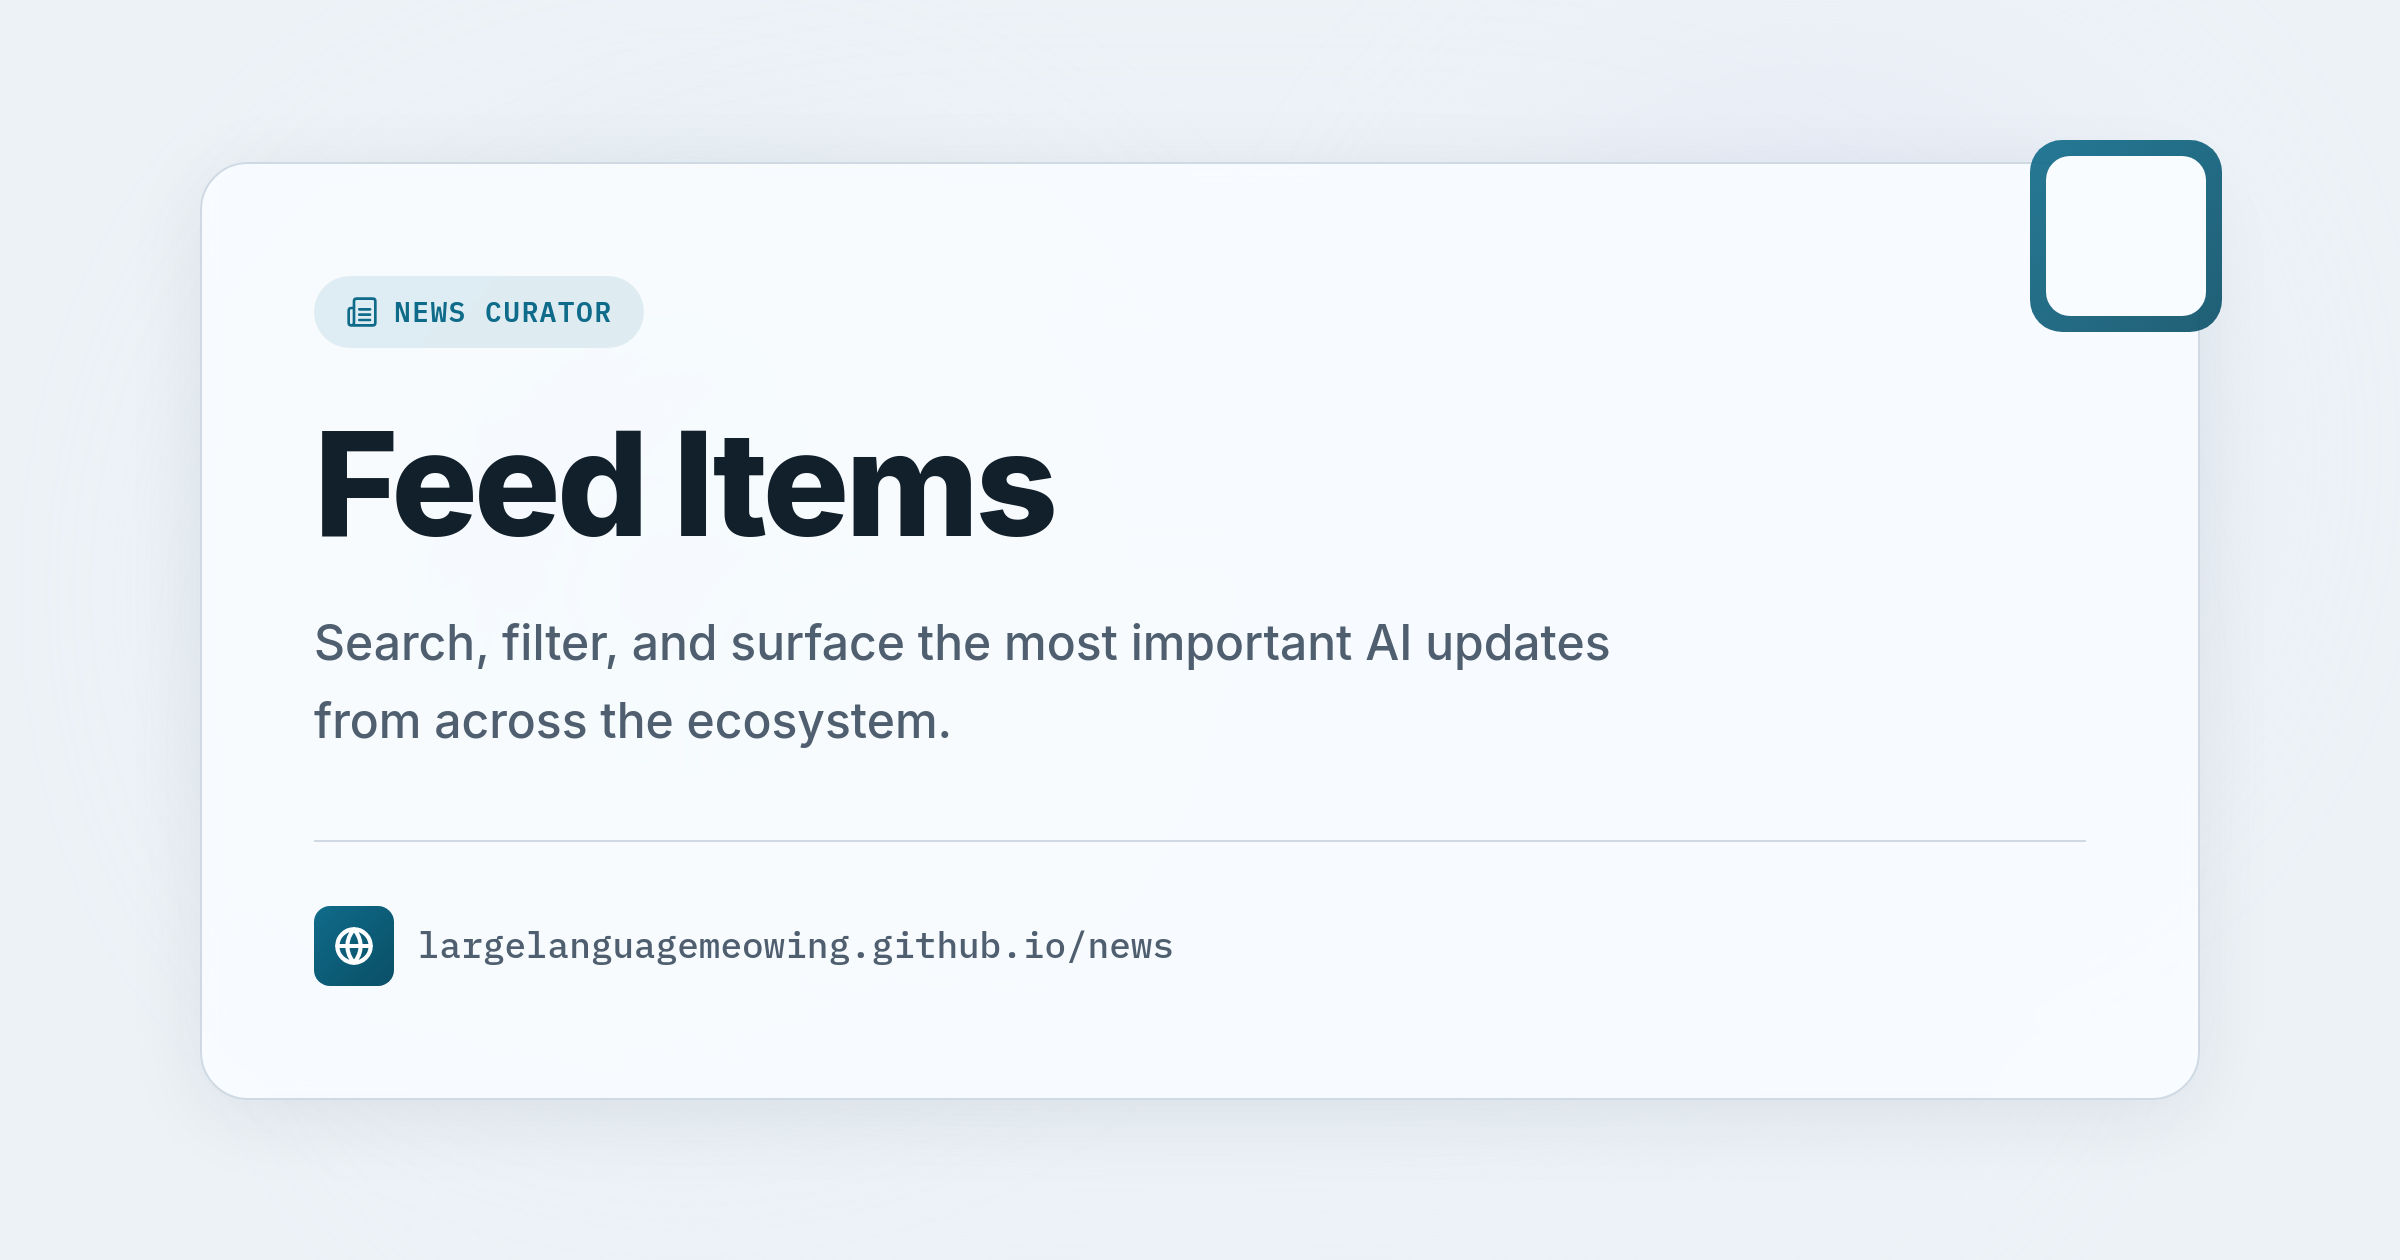
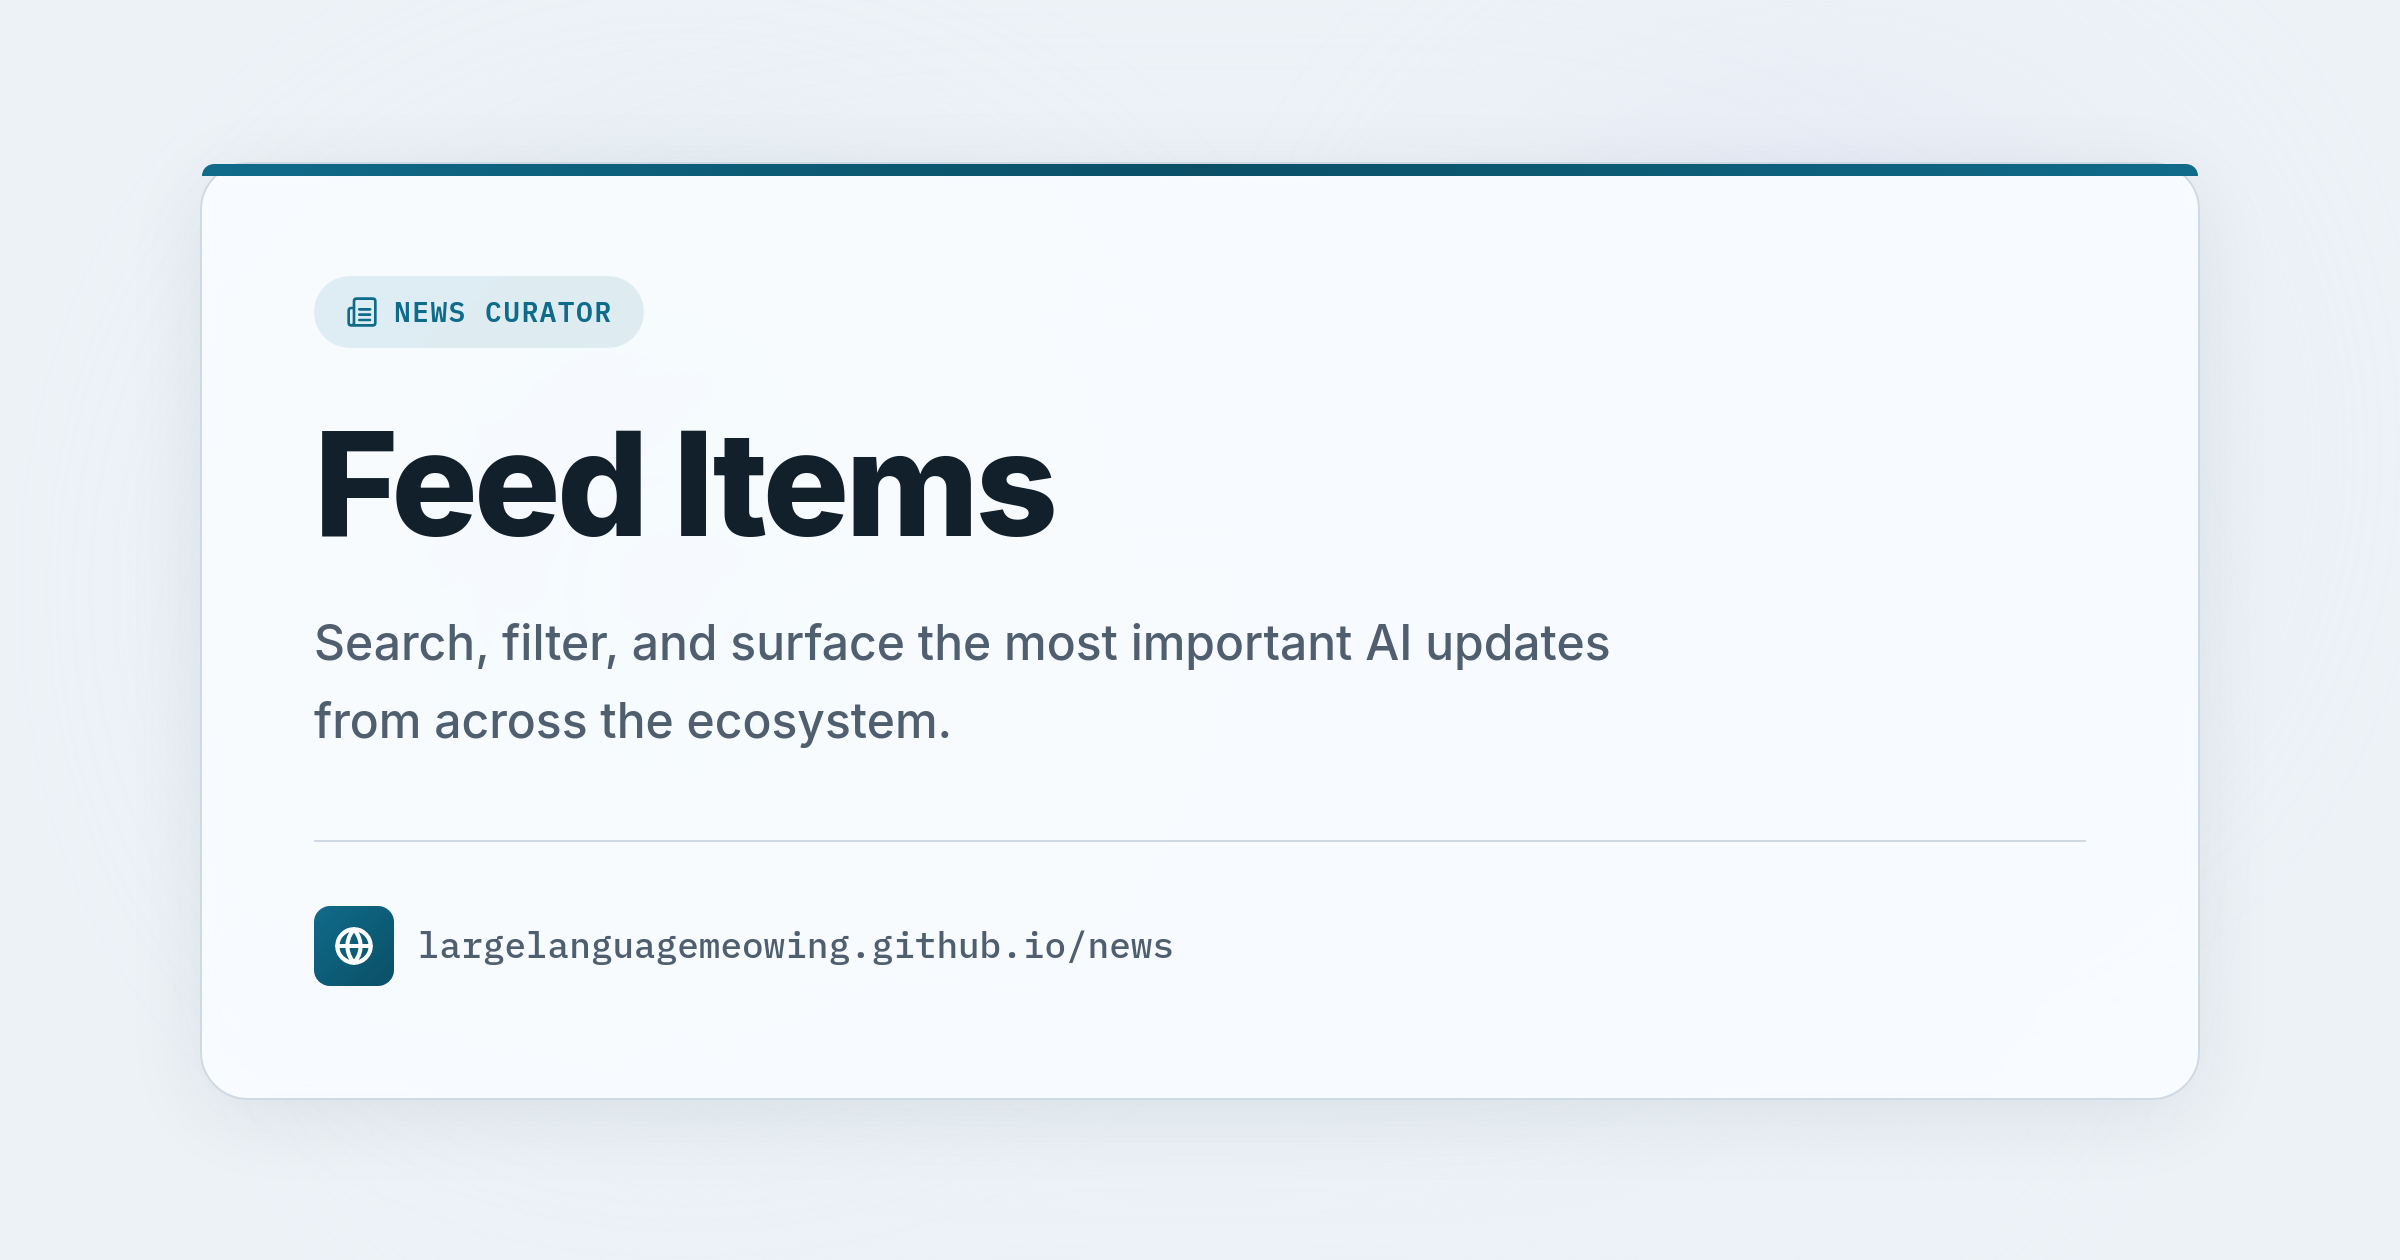
Add RSS OG image and update all OG images with new theme
- Created og-rss.html with orange RSS-themed design
- Generated og-rss.png with Atom 1.0 and Real-time badges
- Updated rss.html to use og-rss.png for OG/Twitter images
- Fixed HTML templates to use overflow-hidden for proper border radius
- All OG images now match site's light theme aesthetic

Changed region(s): [[0.0938, 0.0929, 0.9375, 0.2786]]

diff --git a/dashboard/meta-src/og-rss.html b/dashboard/meta-src/og-rss.html
@@ -24,48 +24,59 @@
     <div class="relative h-full w-full">
       <!-- Soft radial gradients like the site -->
       <div class="absolute inset-0">
-        <div class="absolute right-[15%] top-[10%] h-[400px] w-[400px] rounded-full bg-[#dce3f7] opacity-60 blur-3xl"></div>
-        <div class="absolute left-[10%] top-[25%] h-[350px] w-[350px] rounded-full bg-[#d5e6ef] opacity-50 blur-3xl"></div>
-        <div class="absolute bottom-[5%] left-[20%] h-[300px] w-[300px] rounded-full bg-[#e8f0f8] opacity-40 blur-3xl"></div>
+        <div class="absolute left-[10%] top-[20%] h-[400px] w-[400px] rounded-full bg-[#d5e6ef] opacity-60 blur-3xl"></div>
+        <div class="absolute right-[12%] top-[10%] h-[350px] w-[350px] rounded-full bg-[#e8f0f8] opacity-50 blur-3xl"></div>
+        <div class="absolute bottom-[10%] left-[20%] h-[300px] w-[300px] rounded-full bg-[#dce3f7] opacity-40 blur-3xl"></div>
       </div>
 
       <!-- Main content card -->
       <div class="relative flex h-full items-center justify-center p-16">
         <div class="relative w-full max-w-[1000px] overflow-hidden rounded-3xl border border-[#cfd9e3] bg-[#f9fcff]/90 p-14 shadow-[0_8px_40px_rgba(18,32,43,0.08)] backdrop-blur-sm">
-          <!-- Accent top border -->
-          <div class="absolute left-0 right-0 top-0 h-1.5 bg-gradient-to-r from-[#7c3aed] via-[#5b21b6] to-[#7c3aed]"></div>
+          <!-- Accent top border - orange for RSS -->
+          <div class="absolute left-0 right-0 top-0 h-1.5 bg-gradient-to-r from-[#ff8c42] via-[#ff6b35] to-[#ff8c42]"></div>
 
           <!-- Top label -->
-          <div class="mono mb-8 inline-flex items-center gap-2 rounded-full bg-[#7c3aed]/10 px-4 py-2 text-sm font-semibold tracking-wider text-[#7c3aed] uppercase">
+          <div class="mono mb-8 inline-flex items-center gap-2 rounded-full bg-[#ff8c42]/10 px-4 py-2 text-sm font-semibold tracking-wider text-[#ff6b35] uppercase">
             <svg width="16" height="16" viewBox="0 0 24 24" fill="none" stroke="currentColor" stroke-width="2" stroke-linecap="round" stroke-linejoin="round">
-              <path d="M12.586 2.586A2 2 0 0 0 11.172 2H4a2 2 0 0 0-2 2v7.172a2 2 0 0 0 .586 1.414l8.704 8.704a2.426 2.426 0 0 0 3.42 0l6.58-6.58a2.426 2.426 0 0 0 0-3.42z"/>
-              <circle cx="7.5" cy="7.5" r=".5" fill="currentColor"/>
+              <path d="M4 11a9 9 0 0 1 9 9"/>
+              <path d="M4 4a16 16 0 0 1 16 16"/>
+              <circle cx="5" cy="19" r="1"/>
             </svg>
-            Discovery
+            Subscribe
           </div>
 
           <!-- Main heading -->
           <h1 class="mb-6 text-7xl font-extrabold tracking-tight text-[#12202b]">
-            Tag Cloud
+            RSS Feed
           </h1>
 
           <!-- Description -->
           <p class="max-w-2xl text-2xl font-medium leading-relaxed text-[#4f5f6f]">
-            Explore trending topics and jump into filtered news streams by category.
+            Get the latest AI news and updates delivered to your feed reader.
           </p>
 
-          <!-- Sample tag pills -->
-          <div class="mt-8 flex flex-wrap gap-3">
-            <span class="mono rounded-full bg-[#0f6b8a]/10 px-4 py-2 text-sm font-semibold text-[#0f6b8a]">#AI</span>
-            <span class="mono rounded-full bg-[#0f6b8a]/10 px-4 py-2 text-sm font-semibold text-[#0f6b8a]">#LLM</span>
-            <span class="mono rounded-full bg-[#0f6b8a]/10 px-4 py-2 text-sm font-semibold text-[#0f6b8a]">#OpenAI</span>
-            <span class="mono rounded-full bg-[#0f6b8a]/10 px-4 py-2 text-sm font-semibold text-[#0f6b8a]">#Research</span>
-            <span class="mono rounded-full bg-[#0f6b8a]/10 px-4 py-2 text-sm font-semibold text-[#0f6b8a]">#Tools</span>
+          <!-- Feed format badges -->
+          <div class="mt-8 flex gap-3">
+            <div class="flex items-center gap-2 rounded-full bg-[#ff8c42]/10 px-4 py-2">
+              <svg width="16" height="16" viewBox="0 0 24 24" fill="none" stroke="currentColor" stroke-width="2" stroke-linecap="round" stroke-linejoin="round" class="text-[#ff6b35]">
+                <path d="M4 11a9 9 0 0 1 9 9"/>
+                <path d="M4 4a16 16 0 0 1 16 16"/>
+                <circle cx="5" cy="19" r="1"/>
+              </svg>
+              <span class="mono text-sm font-semibold text-[#ff6b35]">Atom 1.0</span>
+            </div>
+            <div class="flex items-center gap-2 rounded-full bg-[#0f6b8a]/10 px-4 py-2">
+              <svg width="16" height="16" viewBox="0 0 24 24" fill="none" stroke="currentColor" stroke-width="2" stroke-linecap="round" stroke-linejoin="round" class="text-[#0f6b8a]">
+                <circle cx="12" cy="12" r="10"/>
+                <polyline points="12 6 12 12 16 14"/>
+              </svg>
+              <span class="mono text-sm font-semibold text-[#0f6b8a]">Real-time</span>
+            </div>
           </div>
 
           <!-- Bottom URL bar -->
           <div class="mt-10 flex items-center gap-3 border-t border-[#cfd9e3] pt-8">
-            <div class="flex h-10 w-10 items-center justify-center rounded-lg bg-gradient-to-br from-[#7c3aed] to-[#5b21b6] text-white">
+            <div class="flex h-10 w-10 items-center justify-center rounded-lg bg-gradient-to-br from-[#ff8c42] to-[#ff6b35] text-white">
               <svg width="20" height="20" viewBox="0 0 24 24" fill="none" stroke="currentColor" stroke-width="2.5" stroke-linecap="round" stroke-linejoin="round">
                 <circle cx="12" cy="12" r="10"/>
                 <path d="M2 12h20"/>

diff --git a/dashboard/meta-src/og-health.html b/dashboard/meta-src/og-health.html
@@ -31,10 +31,9 @@
 
       <!-- Main content card -->
       <div class="relative flex h-full items-center justify-center p-16">
-        <div class="relative w-full max-w-[1000px] rounded-3xl border border-[#cfd9e3] bg-[#f9fcff]/90 p-14 shadow-[0_8px_40px_rgba(18,32,43,0.08)] backdrop-blur-sm">
-          <!-- Accent corner decoration - green for health -->
-          <div class="absolute -right-3 -top-3 h-24 w-24 rounded-2xl bg-gradient-to-br from-[#1f7e3a] to-[#166628] opacity-90"></div>
-          <div class="absolute -right-1 -top-1 h-20 w-20 rounded-xl bg-[#f9fcff]"></div>
+        <div class="relative w-full max-w-[1000px] overflow-hidden rounded-3xl border border-[#cfd9e3] bg-[#f9fcff]/90 p-14 shadow-[0_8px_40px_rgba(18,32,43,0.08)] backdrop-blur-sm">
+          <!-- Accent top border -->
+          <div class="absolute left-0 right-0 top-0 h-1.5 bg-gradient-to-r from-[#1f7e3a] via-[#166628] to-[#1f7e3a]"></div>
 
           <!-- Top label -->
           <div class="mono mb-8 inline-flex items-center gap-2 rounded-full bg-[#1f7e3a]/10 px-4 py-2 text-sm font-semibold tracking-wider text-[#1f7e3a] uppercase">
@@ -56,7 +55,7 @@
           </p>
 
           <!-- Status indicators -->
-          <div class="mt-8 flex gap-4">
+          <div class="mt-8 flex gap-3">
             <div class="flex items-center gap-2 rounded-full bg-[#1f7e3a]/10 px-4 py-2">
               <div class="h-3 w-3 rounded-full bg-[#1f7e3a]"></div>
               <span class="mono text-sm font-semibold text-[#1f7e3a]">Healthy</span>
@@ -67,4 +66,9 @@
             </div>
             <div class="flex items-center gap-2 rounded-full bg-[#a2232b]/10 px-4 py-2">
               <div class="h-3 w-3 rounded-full bg-[#a2232b]"></div>
-              <span class="mono
+              <span class="mono text-sm font-semibold text-[#a2232b]">Down</span>
+            </div>
+          </div>
+
+          <!-- Bottom URL bar -->
+          <div class="mt-10 flex items-center gap-3 border-t border-[#cfd

diff --git a/dashboard/rss.html b/dashboard/rss.html
@@ -14,11 +14,11 @@
     <meta property="og:title" content="News Aggregator | RSS Feed" />
     <meta property="og:description" content="Subscribe to the News Aggregator RSS feed." />
     <meta property="og:url" content="https://largelanguagemeowing.github.io/news/rss.html" />
-    <meta property="og:image" content="https://largelanguagemeowing.github.io/news/meta/og-feed.png" />
+    <meta property="og:image" content="https://largelanguagemeowing.github.io/news/meta/og-rss.png" />
     <meta name="twitter:card" content="summary_large_image" />
     <meta name="twitter:title" content="News Aggregator | RSS Feed" />
     <meta name="twitter:description" content="Subscribe to the News Aggregator RSS feed." />
-    <meta name="twitter:image" content="https://largelanguagemeowing.github.io/news/meta/og-feed.png" />
+    <meta name="twitter:image" content="https://largelanguagemeowing.github.io/news/meta/og-rss.png" />
     <link rel="preconnect" href="https://fonts.googleapis.com" />
     <link rel="preconnect" href="https://fonts.gstatic.com" crossorigin />
     <link href="https://fonts.googleapis.com/css2?family=Inter:wght@400;500;600;700&family=IBM+Plex+Mono:wght@400;500;600&display=swap" rel="stylesheet" />

diff --git a/dashboard/meta-src/og-feed.html b/dashboard/meta-src/og-feed.html
@@ -31,10 +31,9 @@
 
       <!-- Main content card -->
       <div class="relative flex h-full items-center justify-center p-16">
-        <div class="relative w-full max-w-[1000px] rounded-3xl border border-[#cfd9e3] bg-[#f9fcff]/90 p-14 shadow-[0_8px_40px_rgba(18,32,43,0.08)] backdrop-blur-sm">
-          <!-- Accent corner decoration -->
-          <div class="absolute -right-3 -top-3 h-24 w-24 rounded-2xl bg-gradient-to-br from-[#0f6b8a] to-[#0a4f66] opacity-90"></div>
-          <div class="absolute -right-1 -top-1 h-20 w-20 rounded-xl bg-[#f9fcff]"></div>
+        <div class="relative w-full max-w-[1000px] overflow-hidden rounded-3xl border border-[#cfd9e3] bg-[#f9fcff]/90 p-14 shadow-[0_8px_40px_rgba(18,32,43,0.08)] backdrop-blur-sm">
+          <!-- Accent top border -->
+          <div class="absolute left-0 right-0 top-0 h-1.5 bg-gradient-to-r from-[#0f6b8a] via-[#0a4f66] to-[#0f6b8a]"></div>
 
           <!-- Top label -->
           <div class="mono mb-8 inline-flex items-center gap-2 rounded-full bg-[#0f6b8a]/10 px-4 py-2 text-sm font-semibold tracking-wider text-[#0f6b8a] uppercase">
